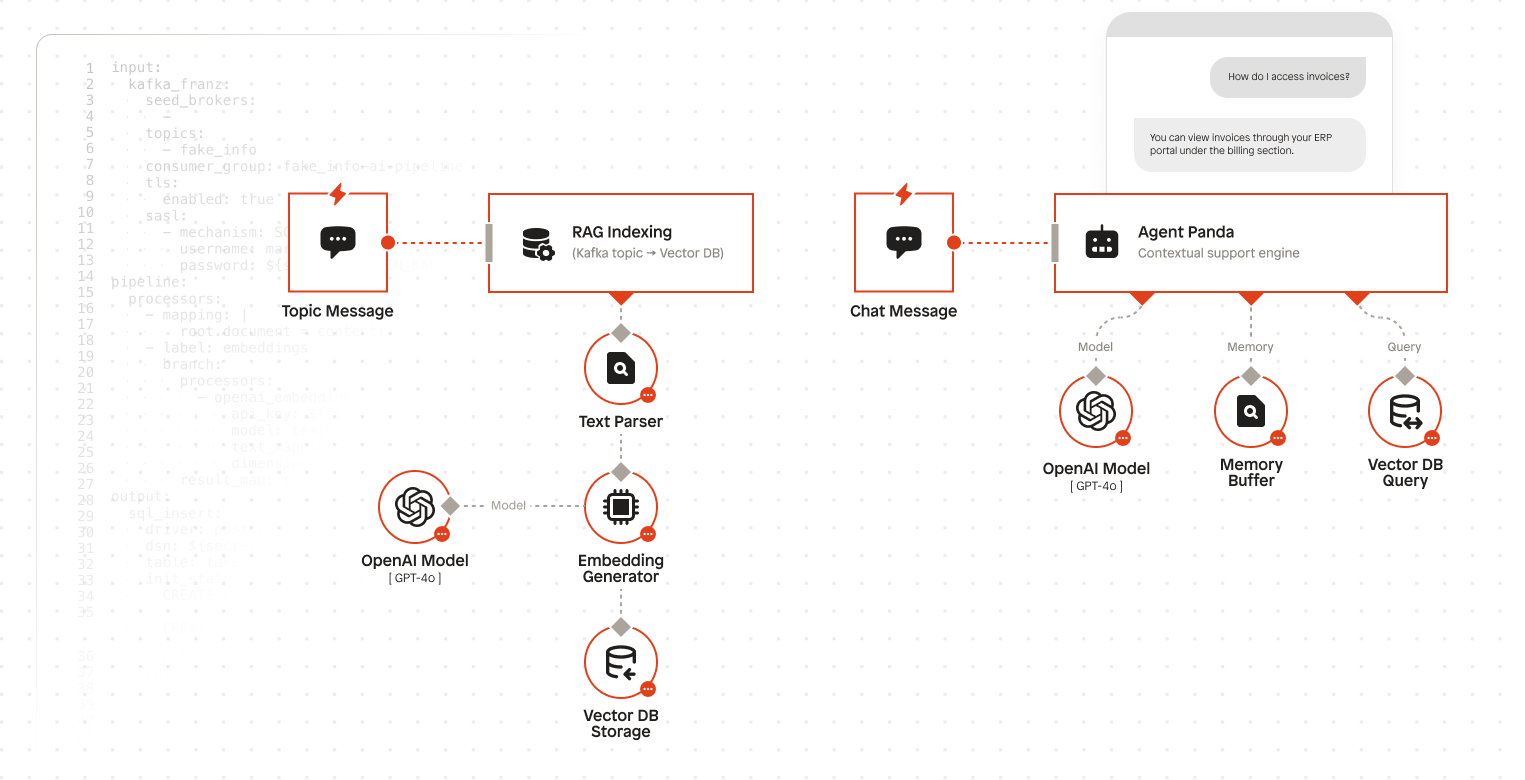
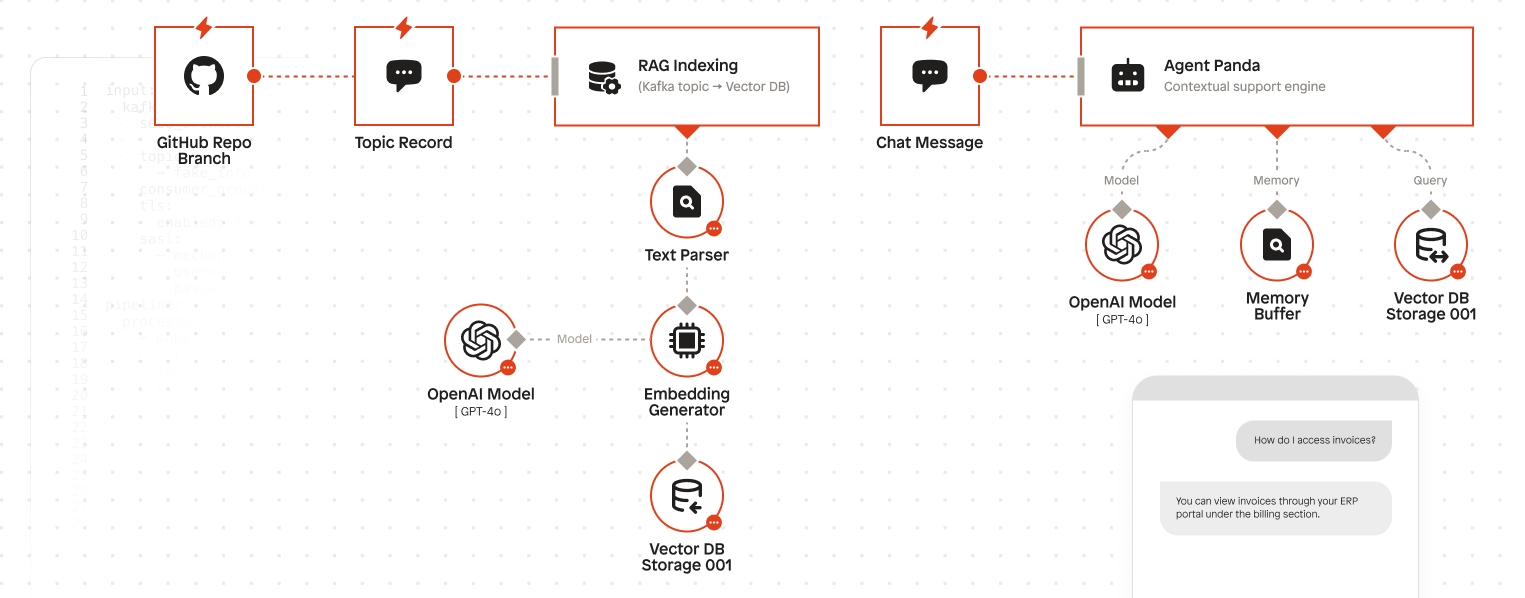
frontend: WIP Add git pipeline

diff --git a/frontend/src/components/pages/agents/create/templates/http/create-agent-http.tsx b/frontend/src/components/pages/agents/create/templates/http/create-agent-http.tsx
@@ -6,10 +6,52 @@ import { useHistory } from 'react-router-dom';
 import agentIllustration from '../../../../../../assets/agent-illustration-http.png';
 import { AgentDetailsForm } from './agent-details-form';
 import { createAgentHttpFormOpts, createAgentHttpSchema } from './create-agent-http-schema';
+// import { GitDetailsForm } from './git-details-form';
 import { parseYamlTemplateSecrets } from './parse-yaml-template-secrets';
 import ragChatPipeline from './rag-chat.yaml';
+// import gitPipeline from './rag-git.yaml';
 import ragIndexingPipeline from './rag-indexing.yaml';
 import { RedpandaUserAndPermissionsForm } from './redpanda-user-and-permissions-form';
+
+export const getPipelineName = (pipelineKey: string) => {
+  switch (pipelineKey) {
+    case 'agent':
+      return 'Agent';
+    case 'RAG':
+      return 'RAG';
+    case 'GIT':
+      return 'Git';
+    default:
+      return 'Unknown';
+  }
+};
+
+export const getPipelineDescription = (pipelineKey: string) => {
+  switch (pipelineKey) {
+    case 'agent':
+      return 'Chat';
+    case 'RAG':
+      return 'Chat API';
+    case 'GIT':
+      return 'Git ingest';
+    default:
+      return 'Unknown';
+  }
+};
+
+export const getPipelinePurpose = (pipelineKey: string) => {
+  switch (pipelineKey) {
+    case 'agent':
+      return 'chat';
+    case 'RAG':
+      return 'indexing';
+    case 'GIT':
+      return 'git';
+    default:
+      return 'unknown';
+  }
+};
+
 export const CreateAgentHTTP = () => {
   const history = useHistory();
   const { mutateAsync: createAgentPipelinesMutation, isPending: isCreateAgentPending } =
@@ -25,12 +67,16 @@ export const CreateAgentHTTP = () => {
         yamlTemplates: {
           agent: ragChatPipeline,
           RAG: ragIndexingPipeline,
+          // GIT: gitPipeline,
         },
         envVars: {
           TOPIC: value.TOPIC,
           SASL_MECHANISM: value.SASL_MECHANISM,
           USERNAME: value.USERNAME,
           POSTGRES_COMPATIBLE_TOPIC_NAME: value.TOPIC,
+          REDPANDA_BROKERS: '${REDPANDA_BROKERS}', // To ensure REDPANDA_BROKERS are set for now
+          // REPOSITORY_URL: value.REPOSITORY_URL,
+          // REPOSITORY_BRANCH: value.REPOSITORY_BRANCH,
         },
         secretMappings: {
           KAFKA_PASSWORD: value.KAFKA_PASSWORD,
@@ -41,13 +87,13 @@ export const CreateAgentHTTP = () => {
       const pipelines = Object.entries(parsedPipelines).map(
         ([key, pipeline]) =>
           new PipelineCreate({
-            displayName: key,
-            description: key === 'agent' ? 'Chat' : 'Chat API', // TODO: Consider providing description for each pipeline
+            displayName: getPipelineName(key),
+            description: getPipelineDescription(key),
             configYaml: pipeline,
             tags: {
               __redpanda_cloud_agent_name: value.name,
               __redpanda_cloud_agent_description: value.description,
-              __redpanda_cloud_pipeline_purpose: key === 'agent' ? 'chat' : 'indexing', // TODO: Discuss if accurate
+              __redpanda_cloud_pipeline_purpose: getPipelinePurpose(key),
             },
           }),
       );
@@ -69,17 +115,30 @@ export const CreateAgentHTTP = () => {
       }}
     >
       <form.AppForm>
-        <Grid templateColumns={{ base: '1fr' }} gap={6}>
-          <GridItem display="flex" alignItems="center" justifyContent="center">
-            <Box borderRadius="md" overflow="hidden" boxShadow="md">
-              <Image src={agentIllustration} alt="AI Agent Illustration" maxWidth="1000px" />
+        <Grid gap={8}>
+          <GridItem display="flex" alignItems="center" justifyContent="center" width="100%">
+            <Box borderRadius="md" overflow="hidden" boxShadow="md" width="100%" maxWidth="1000px" mx="auto">
+              <Image
+                src={agentIllustration}
+                alt="AI Agent Illustration"
+                width="100%"
+                height="auto"
+                objectFit="contain"
+                fallbackSrc="https://via.placeholder.com/800x450?text=AI+Agent"
+              />
             </Box>
           </GridItem>
-          <GridItem maxWidth="800px">
+          <GridItem maxWidth={{ base: '100%', lg: '800px' }} mx="auto" width="100%">
             <VStack spacing={6} align="stretch">
               <AgentDetailsForm form={form} title="Create AI agent" description="Description of agent ..." />
               <Divider my={4} />
               <RedpandaUserAndPermissionsForm form={form} title="Redpanda user and permissions" />
+              {/* <Divider my={4} />
+              <GitDetailsForm
+                form={form}
+                title="Git information"
+                description="Enter the Git repository URL and branch to use for the agent"
+              /> */}
               <Flex justifyContent="flex-start" pt={6}>
                 <ButtonGroup isDisabled={isCreateAgentPending}>
                   <form.SubscribeButton label="Create" variant="solid" loadingText="Creating" />

diff --git a/frontend/src/components/pages/agents/create/templates/http/git-details-form.tsx b/frontend/src/components/pages/agents/create/templates/http/git-details-form.tsx
@@ -1,0 +1,31 @@
+import { Box, Heading, Text } from '@redpanda-data/ui';
+import { withForm } from 'components/form/form';
+import { createAgentHttpFormOpts } from './create-agent-http-schema';
+
+export const GitDetailsForm = withForm({
+  ...createAgentHttpFormOpts,
+  props: {
+    title: 'Git information',
+    description: 'Enter the Git repository URL and branch to use for the agent',
+  },
+  render: ({ title, description }) => (
+    <>
+      <Box>
+        <Heading size="md" mb={1}>
+          {title}
+        </Heading>
+        <Text color="gray.500" fontSize="sm">
+          {description}
+        </Text>
+      </Box>
+      {/* <VStack spacing={4} align="stretch">
+        <form.AppField name="REPOSITORY_URL">
+          {(field) => <field.TextField label="Repository URL" placeholder="Enter repository URL" />}
+        </form.AppField>
+        <form.AppField name="REPOSITORY_BRANCH">
+          {(field) => <field.TextField label="Repository branch" placeholder="Enter repository branch" />}
+        </form.AppField>
+      </VStack> */}
+    </>
+  ),
+});

diff --git a/frontend/src/components/pages/agents/details/chat/send-message-to-api.tsx b/frontend/src/components/pages/agents/details/chat/send-message-to-api.tsx
@@ -1,7 +1,5 @@
+import { config } from 'config';
 import type { ChatMessage } from 'database/chat-db';
-import fetchWithTimeout from 'utils/fetchWithTimeout';
-
-const API_TIMEOUT = 15 * 1_000; // 15 seconds
 
 interface ChatApiResponse {
   message: string;
@@ -47,11 +45,14 @@ export const sendMessageToApi = async ({
       history: formattedHistory,
     };
 
-    const response = await fetchWithTimeout(`${agentUrl}/post/chat`, API_TIMEOUT, {
+    const response = await fetch(`${agentUrl}`, {
       method: 'POST',
       headers: {
+        Authorization: `Bearer ${config.jwt}`,
         'Content-Type': 'application/json',
         // 'Access-Control-Allow-Origin': '*',
+        // 'Access-Control-Allow-Methods': 'POST, GET, OPTIONS',
+        // 'Access-Control-Allow-Headers': 'Content-Type',
       },
       body: JSON.stringify(payload),
     });

diff --git a/frontend/src/components/pages/agents/create/templates/http/create-agent-http-schema.tsx b/frontend/src/components/pages/agents/create/templates/http/create-agent-http-schema.tsx
@@ -10,6 +10,8 @@ export const createAgentHttpSchema = z.object({
   USERNAME: z.string().min(1, 'Username is required'),
   KAFKA_PASSWORD: z.string().min(1, 'Password is required'),
   SASL_MECHANISM: z.enum(['SCRAM-SHA-256', 'SCRAM-SHA-512']),
+  // REPOSITORY_URL: z.string().min(1, 'Repository URL is required').url('Invalid repository URL'),
+  // REPOSITORY_BRANCH: z.string(),
 });
 
 export const createAgentHttpFormOpts = formOptions({
@@ -22,5 +24,7 @@ export const createAgentHttpFormOpts = formOptions({
     USERNAME: '',
     KAFKA_PASSWORD: '',
     SASL_MECHANISM: 'SCRAM-SHA-256',
+    // REPOSITORY_URL: '',
+    // REPOSITORY_BRANCH: 'main',
   },
 });
